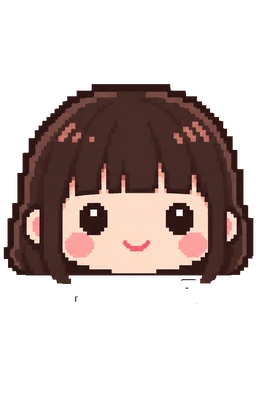
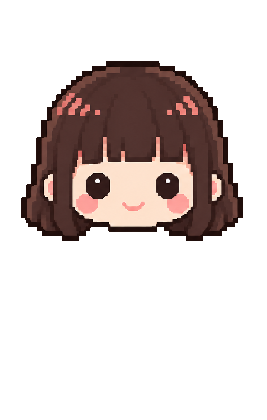
Pixel girl: rebuild as separate head and body parts
The old approach cut a head out of whole-character images, which left a
line at the neck and doubled outlines. The new art has heads and headless
bodies drawn as separate parts; art/tools/pixel_parts.py scales each by
its own pixel size and pins every neck to the same point, so any head
sits on any body with the chin covering the join.

- One look for now: bob hair, everyday sweater (front, side, back and a
  4-frame side walk)
- Old pixel_doll.py and its outputs removed
- Bump cache to v44

Claude-Session: https://claude.ai/code/session_01HNLjjDhwiWZnZmJhscAi2v

Changed region(s): [[0.0, 0.1238, 0.9588, 0.681]]

diff --git a/public/room.js b/public/room.js
@@ -11,8 +11,8 @@ export const VIEW = [130, 0, 1330, 1015];
 export const STYLES = [['pixel', '像素女孩'], ['classic', '經典'], ['doll', '復古娃娃']];
 const STYLE_LOOKS = {
   pixel: {
-    hair: [['bob', '妹妹頭'], ['', '光頭']],
-    cloth: [['tee', '淡黃 T 恤'], ['', '背心']],
+    hair: [['bob', '妹妹頭']],
+    cloth: [['sweater', '日常毛衣']],
   },
   classic: {
     hair: [['ponytail', '高馬尾'], ['', '光頭']],
@@ -23,7 +23,7 @@ const STYLE_LOOKS = {
     cloth: [['tee', 'T 恤'], ['', '運動服']],
   },
 };
-const STYLE_DEFAULT = { pixel: { hair: 'bob', cloth: 'tee' }, classic: { hair: 'ponytail', cloth: 'tee' }, doll: { hair: 'long', cloth: 'tee' } };
+const STYLE_DEFAULT = { pixel: { hair: 'bob', cloth: 'sweater' }, classic: { hair: 'ponytail', cloth: 'tee' }, doll: { hair: 'long', cloth: 'tee' } };
 export const LOOKS = STYLE_LOOKS.classic;
 export const looksFor = (style) => STYLE_LOOKS[style] || LOOKS;
 export const DEFAULT_LOOK = { style: 'pixel', ...STYLE_DEFAULT.pixel };
@@ -59,12 +59,12 @@ const dollParts = (hair, cloth, face) => {
   const c = cloth ? `_${cloth}` : '';
   return [hair && `hair_${hair}_back`, `arm_f${c}`, `leg_f${c}`, `leg_n${c}`, `body${c}`, dollFace(face), hair && `hair_${hair}_front`, `arm_n${c}`];
 };
-// 像素女孩（art/tools/pixel_doll.py）：每張 267×420，腳底在 (133.5, 418)；只有兩層：脖子以下的身體、脖子以上的頭
-// 站著用正面；走路用側面的頭＋4 格身體輪流換（往左走整個翻面）
-const PIX_W = 267, PIX_H = 420, PIX_FOOT = [133.5, 418];
+// 像素女孩（art/tools/pixel_parts.py）：紙娃娃做法，頭和身體分開畫，每張 267×420，腳底大約在 (133.5, 389)
+// 頭的下巴疊在身體的脖子上；站著用正面；走路用側面的頭＋4 格身體輪流換（往左走整個翻面）
+const PIX_W = 267, PIX_H = 420, PIX_FOOT = [133.5, 389];
 const PIX_SIZE = 340; // 畫布在房間裡的高度（人物本身大約 272，和復古娃娃一樣高）
 const PIX_FRAME = 0.15; // 走路每格幾秒
-const pixParts = (hair, cloth, view) => [`body${cloth ? `_${cloth}` : ''}_${view}`, `head${hair ? `_${hair}` : ''}_${view === 'front' ? 'front' : 'side'}`];
+const pixParts = (hair, cloth, view) => [`body_${cloth}_${view}`, `head_${hair}_${view === 'front' ? 'front' : 'side'}`];
 export function lookLayers(look, face = 'smile') {
   const l = normalizeLook(look);
   if (l.style === 'pixel') return pixParts(l.hair, l.cloth, 'front').map((f) => `${BASE}pixel/${f}.webp`);

diff --git a/public/sw.js b/public/sw.js
@@ -1,5 +1,5 @@
 // 改了任何檔案就把版本號 +1，舊快取才會被清掉
-const CACHE = 'lifelog-v43';
+const CACHE = 'lifelog-v44';
 const ASSETS = [
   './',
   './privacy',
@@ -64,22 +64,16 @@ const ASSETS = [
   './icons/icon-maskable-512.png',
   './icons/favicon-32.png',
   './logo.webp',
-  './room/pixel/body_front.webp',
-  './room/pixel/body_side.webp',
-  './room/pixel/body_tee_front.webp',
-  './room/pixel/body_tee_side.webp',
-  './room/pixel/body_tee_walk0.webp',
-  './room/pixel/body_tee_walk1.webp',
-  './room/pixel/body_tee_walk2.webp',
-  './room/pixel/body_tee_walk3.webp',
-  './room/pixel/body_walk0.webp',
-  './room/pixel/body_walk1.webp',
-  './room/pixel/body_walk2.webp',
-  './room/pixel/body_walk3.webp',
+  './room/pixel/body_sweater_back.webp',
+  './room/pixel/body_sweater_front.webp',
+  './room/pixel/body_sweater_side.webp',
+  './room/pixel/body_sweater_walk0.webp',
+  './room/pixel/body_sweater_walk1.webp',
+  './room/pixel/body_sweater_walk2.webp',
+  './room/pixel/body_sweater_walk3.webp',
+  './room/pixel/head_bob_back.webp',
   './room/pixel/head_bob_front.webp',
   './room/pixel/head_bob_side.webp',
-  './room/pixel/head_front.webp',
-  './room/pixel/head_side.webp',
 ];
 
 // 網址會被轉址的（/index.html → /）不放進快取：Safari 不接受 service worker 回傳轉址過的回應，會變成空白頁

diff --git a/art/tools/pixel_parts.py b/art/tools/pixel_parts.py
@@ -1,0 +1,87 @@
+"""像素女孩（紙娃娃做法）：頭和身體是分開畫的零件，疊起來就是一個人。
+
+素材（art/source/pixel2/，GPT 生的去背圖，一列排好）：
+  head_<髮型>.png/webp   3 顆頭：正面、側面（朝右）、背面。只有頭，下巴有完整外框
+  body_<衣服>.png/webp   7 個沒有頭的身體：正面、側面、背面、側面走路 4 格。脖子是一小截皮膚
+每張圖都用自己的外框量出「一格像素多大」，統一縮放，所以 GPT 畫多大都沒關係，不用和別張對齊。
+組合：頭的下巴疊在脖子上，下巴的外框蓋住接縫。
+輸出（public/room/pixel/，267×420）：
+  body_<衣服>_front|side|back|walk0-3.webp：脖子固定在 NECK 這一點，走路時腳會自然上下
+  head_<髮型>_front|side|back.webp：下巴固定在 NECK 上方一點，所有身體都能直接疊
+用法：python3 art/tools/pixel_parts.py
+"""
+from PIL import Image
+import numpy as np, glob, os, re
+from collections import Counter
+
+ROOT = os.path.join(os.path.dirname(__file__), '..', '..')
+SRC = os.path.join(ROOT, 'art/source/pixel2')
+OUT = os.path.join(ROOT, 'public/room/pixel')
+CW, CH = 267, 420
+UNIT = 5.2            # 輸出時一格像素的大小（畫布 px）
+NECK = (133.5, 225)   # 脖子頂端在畫布上的位置
+CHIN_OVER = 1.2       # 下巴蓋住脖子幾格
+BODY_VIEWS = ['front', 'side', 'back', 'walk0', 'walk1', 'walk2', 'walk3']
+HEAD_VIEWS = ['front', 'side', 'back']
+
+def load(f):
+    a = np.array(Image.open(f).convert('RGBA')); a[..., 3] = np.where(a[..., 3] >= 128, 255, 0); return a
+
+def parts(a, gap=12):
+    op = a[..., 3] > 0; cols = np.where(op.any(0))[0]; g = []; s = p = cols[0]
+    for c in cols[1:]:
+        if c > p + gap: g.append((s, p)); s = c
+        p = c
+    g.append((s, p)); out = []
+    for x0, x1 in g:
+        ys = np.where(op[:, x0:x1 + 1].any(1))[0]; out.append(a[ys[0]:ys[-1] + 1, x0:x1 + 1])
+    return out
+
+def unit(a):
+    """一格像素多大：深色外框橫向連續的長度裡，最常見的那個（排除 1～2 px 的雜邊）。"""
+    d = (a[..., 3] > 0) & (a[..., :3].astype(int).sum(-1) < 180); c = Counter()
+    for row in d:
+        r = 0
+        for v in row:
+            if v: r += 1
+            elif r: c[r] += 1; r = 0
+    return next(k for k, _ in c.most_common() if k >= 4)
+
+def skin(a):
+    c = a[..., :3].astype(int)
+    return (a[..., 3] > 0) & (c[..., 0] > 220) & (c[..., 1] > 170) & (c[..., 1] < 225) & (c[..., 2] > 140) & (c[..., 2] < 210)
+
+def save(a, k, anchor, at, name):
+    """a 縮放 k 倍（最近鄰，保留像素），讓 a 上的 anchor 點落在畫布的 at。"""
+    im = Image.fromarray(a); im = im.resize((round(im.width * k), round(im.height * k)), Image.NEAREST)
+    c = Image.new('RGBA', (CW, CH)); c.alpha_composite(im, (round(at[0] - anchor[0] * k), round(at[1] - anchor[1] * k)))
+    c.save(os.path.join(OUT, f'{name}.webp'), lossless=True)
+
+def files(prefix):
+    for f in sorted(glob.glob(f'{SRC}/{prefix}_*')):
+        yield re.match(rf'{prefix}_(\w+)\.\w+$', os.path.basename(f)).group(1), f
+
+def main():
+    os.makedirs(OUT, exist_ok=True)
+    for name, f in files('body'):
+        a = load(f); ps = parts(a); u = unit(a); k = UNIT / u
+        print(f'衣服 {name}：{len(ps)} 個身體，一格 {u}px')
+        for v, p in zip(BODY_VIEWS, ps):
+            ys, xs = np.where(skin(p)[:max(3, round(u * 1.5))])   # 脖子：最上面那一截皮膚
+            save(p, k, ((xs.min() + xs.max()) / 2, 0), NECK, f'body_{name}_{v}')
+    for name, f in files('head'):
+        a = load(f); ps = parts(a); u = unit(a); k = UNIT / u
+        print(f'髮型 {name}：{len(ps)} 顆頭，一格 {u}px')
+        for v, p in zip(HEAD_VIEWS, ps):
+            sk = skin(p); H = p.shape[0]
+            if v == 'back' or not sk.any():
+                chin = (p.shape[1] / 2, H - u * 1.5)
+            else:
+                ys, xs = np.where(sk); b = ys.max(); xb = xs[ys > b - u * 2]
+                cx = (xb.min() + xb.max()) / 2
+                if v == 'side': cx = (cx + p.shape[1] / 2) / 2   # 側面：脖子在臉和後腦中間
+                chin = (cx, b + u)
+            save(p, k, chin, (NECK[0], NECK[1] + CHIN_OVER * UNIT), f'head_{name}_{v}')
+
+if __name__ == '__main__':
+    main()

diff --git a/CLAUDE.md b/CLAUDE.md
@@ -110,12 +110,12 @@ tests/             Playwright 端對端測試
   - 衣服：一整張「光頭素體穿衣服」的圖，先用腿和鞋對齊素體，只取脖子以下，頭一律用素體的（頭髮才對得齊）；
   - 目前有：女生、長直髮／鮑伯頭／光頭、T 恤／運動服；這一版沒有表情；
   - 男生素體 `art/source/doll34_boy_base.webp` 已有，髮型和衣服等使用者生成。
-- **像素女孩**（`style: 'pixel'`，新使用者的預設，`cyworld` 分支）：logo 女孩的像素風。
-  - 素材在 `art/source/pixel/`（GPT 生的去背 PNG）：`base.png` 光頭三面、`base_walk.png` 走路 4 格、`hair_<名>.png`、`cloth_<名>.png`、`cloth_<名>_walk.png`；
-  - `python3 art/tools/pixel_doll.py` 會把每張圖用剪影自動對齊到光頭素體（站姿看腿、走路看頭形，吻合度低於 0.94 會提醒重生），輸出 `public/room/pixel/` 的 `body[_衣服]_front|side|walk0-3.webp`、`head[_髮型]_front|side.webp`；
-  - 只有兩層：脖子以下的身體、脖子以上的頭（含臉）；站著是正面，走路是側面的頭＋4 格身體輪流（每格 0.15 秒），往左走整個翻面；
-  - 加新髮型／衣服：放進 `art/source/pixel/`、跑工具、在 `room.js` 的 `STYLE_LOOKS.pixel` 加選項、`sw.js` 加檔案；
-  - 長髮會垂到身體前後，之後要拆前後兩層。
+- **像素女孩**（`style: 'pixel'`，新使用者的預設，`cyworld` 分支）：logo 女孩的像素風，**紙娃娃做法**。
+  - 頭和身體是 GPT 分開畫的零件（`art/source/pixel2/`）：`head_<髮型>` 一列 3 顆頭（正、側朝右、背），只有頭、下巴有外框；`body_<衣服>` 一列 7 個沒頭的身體（正、側、背、側面走路 4 格），脖子是一小截皮膚；
+  - `python3 art/tools/pixel_parts.py`：每張用自己外框的粗細算出「一格像素多大」統一縮放，**不用和別張對齊**；輸出 `public/room/pixel/` 的 `body_<衣服>_front|side|back|walk0-3.webp`、`head_<髮型>_front|side|back.webp`，脖子固定在畫布 (133.5, 225)，頭的下巴蓋在脖子上；
+  - 任何頭都能疊任何身體；站著正面、走路側面的頭＋4 格身體（每格 0.15 秒），往左走整個翻面；
+  - 教訓：不要從「一整個人」的圖裡挖頭髮或切脖子——GPT 每張都會偏移縮放，疊起來會有雙線和接縫；
+  - 表情之後自己在臉上點；髮色可以換色；加新髮型／衣服：放進 `art/source/pixel2/`、跑工具、在 `room.js` 的 `STYLE_LOOKS.pixel` 加選項、`sw.js` 加檔案。
 - 表情由心情決定（經典角色）：`faceFor(emo)` 把 happy/excited/love/moved 對到 `happy`、angry 對到 `angry`、其他對到 `smile`。
 - 圖層順序：`hair_*_back → body → cloth → face → hair_*_front → sym_*`。
 - 圖層尺寸是 267×420，腳底在 (108.8, 418.6)。
